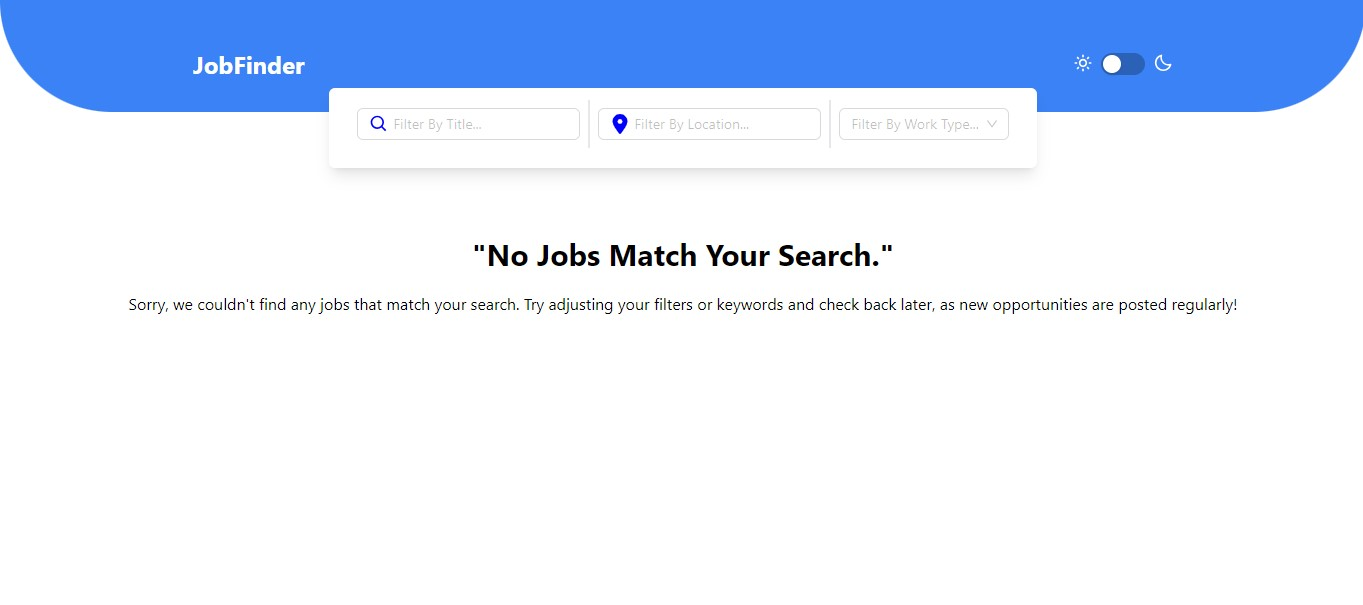
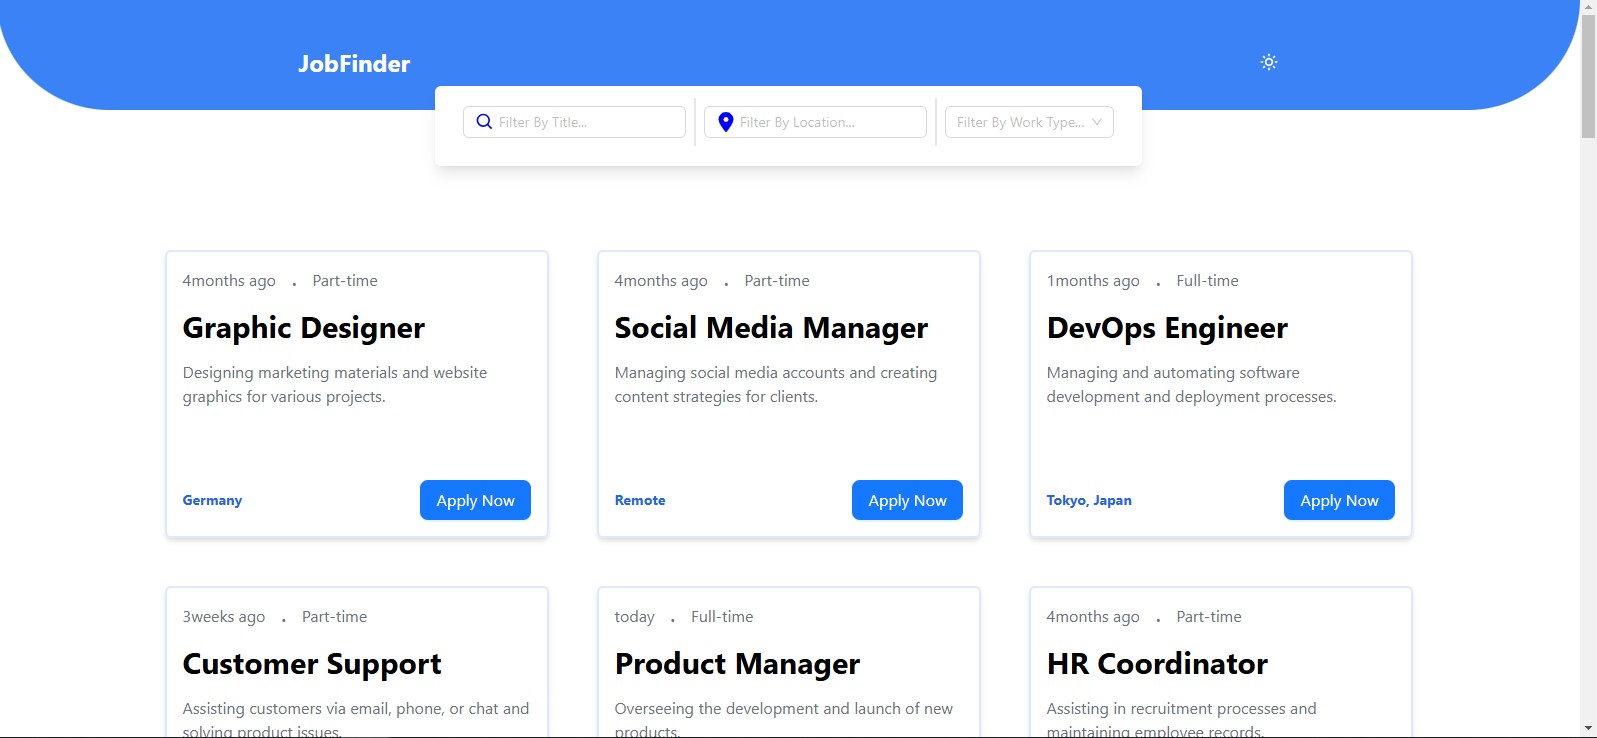
update findJOb project image and site link

diff --git a/src/components/Projects/MyProjects.jsx b/src/components/Projects/MyProjects.jsx
@@ -1,5 +1,5 @@
 import ComingSoon from "../../assets/projects/ComingSoon.jpg";
-import JobFinder from "../../assets/projects/JobFinder.jpg";
+import JobFinder from "../../assets/projects/jobFinder.jpg";
 import FooDy from "../../assets/projects/FooDy.png";
 import IPAddressTracker from "../../assets/projects/IPAddressTracker.jpg";
 import EcomQuickBuy from "../../assets/projects/EcomQuickBuy.jpg";
@@ -28,7 +28,7 @@ const MyProjects = () => {
       title: "Find Job",
       image: JobFinder,
       codeURL: "https://github.com/OussamaDeghfel/JobFinder.git",
-      siteURL: "https://job-finder-steel.vercel.app/",
+      siteURL: "https://job-finder-teal-rho.vercel.app/",
     },
     {
       id: 3,
